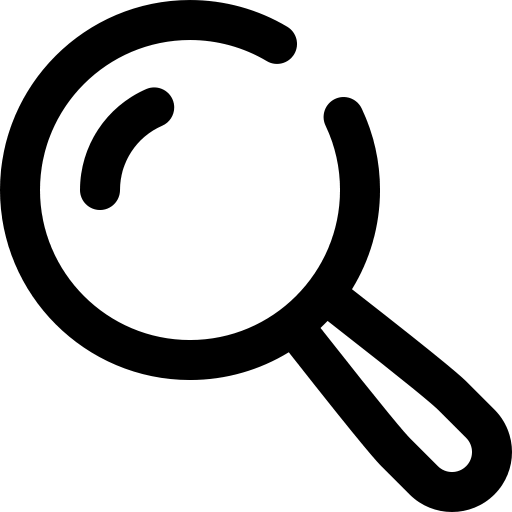
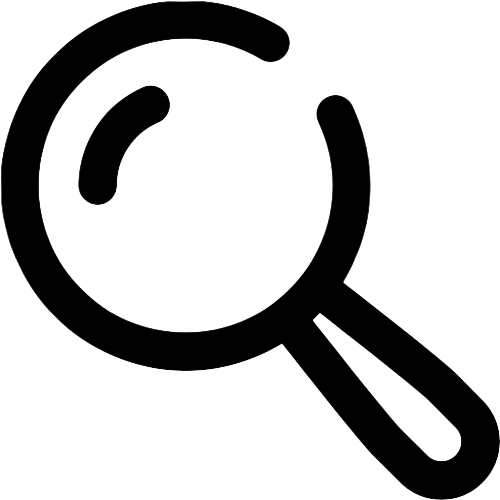
Add styling to all buttons

diff --git a/templates/includes/navbar.html b/templates/includes/navbar.html
@@ -17,6 +17,7 @@
             </li>
         </ul>
 
+        <!-- Search bar / large screen -->
         <div class="collapse navbar-collapse header-lg">
             <form method="GET" action="{% url 'products' %}" class="form-inline my-2 my-lg-0 mx-auto">
                 <input class="form-control" type="search" placeholder="Search for products..." aria-label="Search">
@@ -25,6 +26,7 @@
                     alt="submit">
             </form>
 
+        <!-- My account / Wishlist / Basket -->           
             <li class="list-inline-item dropdown">
                 <a class="text-black nav-link" href="#" id="user-options" data-toggle="dropdown" aria-haspopup="true"
                     aria-expanded="false">
@@ -71,7 +73,7 @@
     </div>
 </nav>
 
-<!-- Main navbar -->
+<!-- Main navbar / large screen -->
 <nav class="navbar navbar-expand-md navbar-dark bg-dark sub-menu">
     <div class="container">
         <div class="collapse navbar-collapse" id="navbar">
@@ -99,13 +101,14 @@
                         Products
                     </a>
                     <div class="dropdown-menu border-0" aria-labelledby="products-link">
-                            <a href="{% url 'products' %}?category=cleanse" class="dropdown-item">STEP 1 - Cleanse</a>
-                            <a href="{% url 'products' %}?category=condition" class="dropdown-item">STEP 2 - Condition</a>
-                            <a href="{% url 'products' %}?category=style" class="dropdown-item">STEP 3 - Style</a>
-                            <a href="{% url 'products' %}?category=travel_sizes" class="dropdown-item">TRY ME Travel Sizes</a>
-                            <a href="{% url 'products' %}?category=bundle_sets" class="dropdown-item">Bundle sets</a>
-                            <a href="{% url 'products' %}?category=sale" class="dropdown-item">SALE</a>
-                            <a href="{% url 'products' %}" class="dropdown-item">All Products</a>
+                        <a href="{% url 'products' %}?category=cleanse" class="dropdown-item">STEP 1 - Cleanse</a>
+                        <a href="{% url 'products' %}?category=condition" class="dropdown-item">STEP 2 - Condition</a>
+                        <a href="{% url 'products' %}?category=style" class="dropdown-item">STEP 3 - Style</a>
+                        <a href="{% url 'products' %}?category=travel_sizes" class="dropdown-item">TRY ME Travel
+                            Sizes</a>
+                        <a href="{% url 'products' %}?category=bundle_sets" class="dropdown-item">Bundle sets</a>
+                        <a href="{% url 'products' %}?category=sale" class="dropdown-item">SALE</a>
+                        <a href="{% url 'products' %}" class="dropdown-item">All Products</a>
                     </div>
                 <li class="nav-item">
                     <a class="nav-link" href="#">Locations</a>
@@ -124,7 +127,7 @@
     </div>
 </nav>
 
-<!-- Search bar -->
+<!-- Search bar / small screen -->
 <div class="search-bar d-block d-md-none search-dark">
     <div class="container">
         <div class="row">
@@ -132,7 +135,7 @@
                 <form method="GET" action="{% url 'products' %}" class="form-inline mb-3 mx-auto">
                     <input class="form-control" type="search" placeholder="Search for products..." aria-label="Search">
                     <input type="image" id="Search" class="sm-icons d-block d-md-none" name="q"
-                        src="https://github.com/KlaudiaBC/E-Commerce-Applications-Project-Pretty-Curly-Girl/blob/main/static/images/media/search-dark.png?raw=true"
+                        src="https://github.com/KlaudiaBC/E-Commerce-Applications-Project-Pretty-Curly-Girl/blob/main/static/images/media/search.png?raw=true"
                         alt="search">
                 </form>
             </div>
@@ -140,7 +143,7 @@
     </div>
 </div>
 
-<!-- Sidebar -->
+<!-- Sidebar / small screen -->
 <nav id="sidebar">
     <div class="sidebar-header">
         <div class="container">

diff --git a/static/css/base.css b/static/css/base.css
@@ -21,7 +21,7 @@ html {
 }
 
 .search-dark {
-    background-color: black;
+    background-color: #6c757d85;
     padding-top: 0.5rem;
 }
 
@@ -32,12 +32,6 @@ html {
     justify-content: center;
     height: 1.5rem;
     width: 1.5rem;
-}
-
-
-.btn-black {
-    background: black;
-    color: white;
 }
 
 /* From codepen */
@@ -75,6 +69,46 @@ html {
     border-top-left-radius: 0;
     border-bottom-left-radius: 0;
 }
+
+
+/* footer */
+.footer {
+    bottom: 0;
+    left: 0;
+    right: 0;
+    display: flex;
+    flex-direction: row;
+    align-items: center;
+    justify-content: center;
+    width: 100%;
+    background-color: #6c757d;
+    opacity: .95;
+    color: white;
+    font-family: sans-serif;
+}
+
+.footer p {
+    margin-top: 1rem;
+    font-size: smaller;
+}
+
+.sm-icons {
+    height: 3rem;
+    width: 3rem;
+    padding: 0.5rem;
+    display: flex;
+}
+
+.sm-icons img {
+    width: 100%;
+    height: 100%;
+    object-fit: cover;
+    overflow: hidden;
+}
+
+
+/* -------------------------------- Media Queries */
+
 
 /* Small devices (landscape phones, 576px and up) */
 @media (min-width: 576px) {}
@@ -248,11 +282,6 @@ section {
     z-index: 5000;
 }
 
-/* .mobiHeader .menuActive~.overlay {
-      opacity: 1;
-      width: 100%;
-  } */
-
 ul.social-icons {
     list-style-type: none;
     padding-left: 0;
@@ -308,43 +337,6 @@ ul.social-icons li {
 }
 
 
-
-/* footer */
-.footer {
-    display: flex;
-    flex-direction: row;
-    align-items: center;
-    justify-content: center;
-    position: fixed;
-    bottom: 0;
-    width: 100%;
-    background-color: #6c757d;
-    opacity: .95;
-    color: white;
-    font-family: sans-serif;
-}
-
-.footer p {
-    margin-top: 1rem;
-    font-size: smaller;
-}
-
-.sm-icons {
-    height: 3rem;
-    width: 3rem;
-    padding: 0.5rem;
-    display: flex;
-}
-
-.sm-icons img {
-    width: 100%;
-    height: 100%;
-    object-fit: cover;
-    overflow: hidden;
-}
-
-
-/* -------------------------------- Media Queries */
 
 /* Slightly larger container on xl screens */
 @media (min-width: 1200px) {

diff --git a/templates/allauth/account/login.html b/templates/allauth/account/login.html
@@ -14,8 +14,8 @@
 
 {% if socialaccount_providers %}
 <p class="text-center">{% blocktrans with site.name as site_name %}Please sign in with one
-of your existing third party accounts. Or, <a href="{{ signup_url }}">sign up</a>
-for a {{ site_name }} account and sign in below:{% endblocktrans %}</p>
+  of your existing third party accounts. Or, <a href="{{ signup_url }}">sign up</a>
+  for a {{ site_name }} account and sign in below:{% endblocktrans %}</p>
 
 <div class="socialaccount_ballot">
 
@@ -31,7 +31,8 @@ for a {{ site_name }} account and sign in below:{% endblocktrans %}</p>
 
 {% else %}
 <p class="text-center">{% blocktrans %}If you have not created an account yet, then please
-<a href="{{ signup_url }}">sign up</a> first.{% endblocktrans %}</p>
+  <a href="{{ signup_url }}">sign up</a> first.{% endblocktrans %}
+</p>
 {% endif %}
 
 <form class="login" method="POST" action="{% url 'account_login' %}">
@@ -40,8 +41,14 @@ for a {{ site_name }} account and sign in below:{% endblocktrans %}</p>
   {% if redirect_field_value %}
   <input type="hidden" name="{{ redirect_field_name }}" value="{{ redirect_field_value }}" />
   {% endif %}
-  <a class="button secondaryAction" href="{% url 'account_reset_password' %}">{% trans "Forgot Password?" %}</a>
-  <button class="primaryAction" type="submit">{% trans "Sign In" %}</button>
+  <div class="col-md-12 text-center">
+    <button class="primaryAction btn btn-outline-secondary" type="submit">{% trans "Sign In" %}</button>
+  </div>
+  <br>
+  <div class="col-md-12 text-center">
+    <a class="button secondaryAction" href="{% url 'account_reset_password' %}">{% trans "Forgot Password?" %}</a>
+  </div>
 </form>
+<br><br>
 
 {% endblock %}

diff --git a/products/templates/products/product-detail.html b/products/templates/products/product-detail.html
@@ -3,19 +3,14 @@
 {% block extra_title %}Products{% endblock %}
 
 {% block content %}
-<div class="overlay"></div>
-<div class="container-fluid">
+<div class="container-fluid h-100">
     <div class="row">
         <div class="col-12 col-md-6 col-lg-4 offset-lg-2">
             <div class="image-container my-5">
                 {% if product.image %}
-                <a href="{{ product.image.url }}" target="_blank">
                     <img class="card-img-top img-fluid" src="{{ product.image.url }}" alt="{{ product.name }}">
-                </a>
                 {% else %}
-                <a href="">
                     <img class="card-img-top img-fluid" src="{{ MEDIA_URL }}noimage.png" alt="{{ product.name }}">
-                </a>
                 {% endif %}
             </div>
         </div>
@@ -34,5 +29,9 @@
             </div>
         </div>
     </div>
+</div>
+<br>
+<div>
+    <h2>You may also like:</h2>
 </div>
 {% endblock %}

diff --git a/templates/allauth/account/logout.html b/templates/allauth/account/logout.html
@@ -10,13 +10,15 @@
 
 <p class="text-center">{% trans 'Are you sure you want to sign out?' %}</p>
 
-<form method="post" action="{% url 'account_logout' %}">
-  {% csrf_token %}
-  {% if redirect_field_value %}
-  <input type="hidden" name="{{ redirect_field_name }}" value="{{ redirect_field_value }}"/>
-  {% endif %}
-  <button type="submit">{% trans 'Sign Out' %}</button>
-</form>
-
+<div class="col-md-12 text-center">
+  <form method="post" action="{% url 'account_logout' %}">
+    {% csrf_token %}
+    {% if redirect_field_value %}
+    <input type="hidden" name="{{ redirect_field_name }}" value="{{ redirect_field_value }}" />
+    {% endif %}
+    <button type="submit" class="btn btn-outline-secondary">{% trans 'Sign Out' %}</button>
+  </form>
+</div>
+<br><br>
 
 {% endblock %}

diff --git a/templates/base.html b/templates/base.html
@@ -28,7 +28,7 @@
   <div class="utility-nav">
     <div class="container">
       <div>
-        <p class="small">Free shipping on total of $99 of all products</p>
+        <p class="small">Netherlands: Next Day Delivery  |  Express Shipping Worldwide</p>
       </div>
     </div>
   </div>
@@ -55,6 +55,7 @@
   {% endblock content %}
 
   <!-- Footer -->
+  <br>
   <footer class="footer">
     <div>
       <p>&copy; Copyright reserved. KBC 2022 &middot;</p>

diff --git a/templates/allauth/account/password_change.html b/templates/allauth/account/password_change.html
@@ -11,6 +11,9 @@
 <form method="POST" action="{% url 'account_change_password' %}" class="password_change">
     {% csrf_token %}
     {{ form|crispy }}
-    <button type="submit" name="action">{% trans "Change Password" %}</button>
+    <div class="col-md-12 text-center">
+        <button type="submit" name="action" class="btn btn-outline-secondary">{% trans "Change Password" %}</button>
+    </div>
 </form>
+<br><br>
 {% endblock %}

diff --git a/templates/allauth/account/password_reset_from_key.html b/templates/allauth/account/password_reset_from_key.html
@@ -17,7 +17,9 @@
 <form method="POST" action="{{ action_url }}">
     {% csrf_token %}
     {{ form|crispy }}
-    <input type="submit" name="action" value="{% trans 'change password' %}" />
+    <div class="col-md-12 text-center">
+        <input type="submit" name="action" value="{% trans 'change password' %}" />
+    </div>
 </form>
 {% else %}
 <p class="text-center">{% trans 'Your password is now changed.' %}</p>

diff --git a/templates/allauth/account/signup.html b/templates/allauth/account/signup.html
@@ -17,7 +17,10 @@
   {% if redirect_field_value %}
   <input type="hidden" name="{{ redirect_field_name }}" value="{{ redirect_field_value }}" />
   {% endif %}
-  <button type="submit">{% trans "Sign Up" %} &raquo;</button>
+  <div class="col-md-12 text-center">
+  <button type="submit" class="btn btn-outline-secondary">{% trans "Sign Up" %} &raquo;</button>
+  </div>
 </form>
+<br><br>
 
 {% endblock %}

diff --git a/products/templates/products/products.html b/products/templates/products/products.html
@@ -4,8 +4,7 @@
 
 {% block content %}
 
-<div class="overlay"></div>
-<div class="container-fluid">
+<div class="container-fluid h-100">
     <hr class="w-50 mb-1">
     <div class="row">
         <div class="col text-center mt-3">
